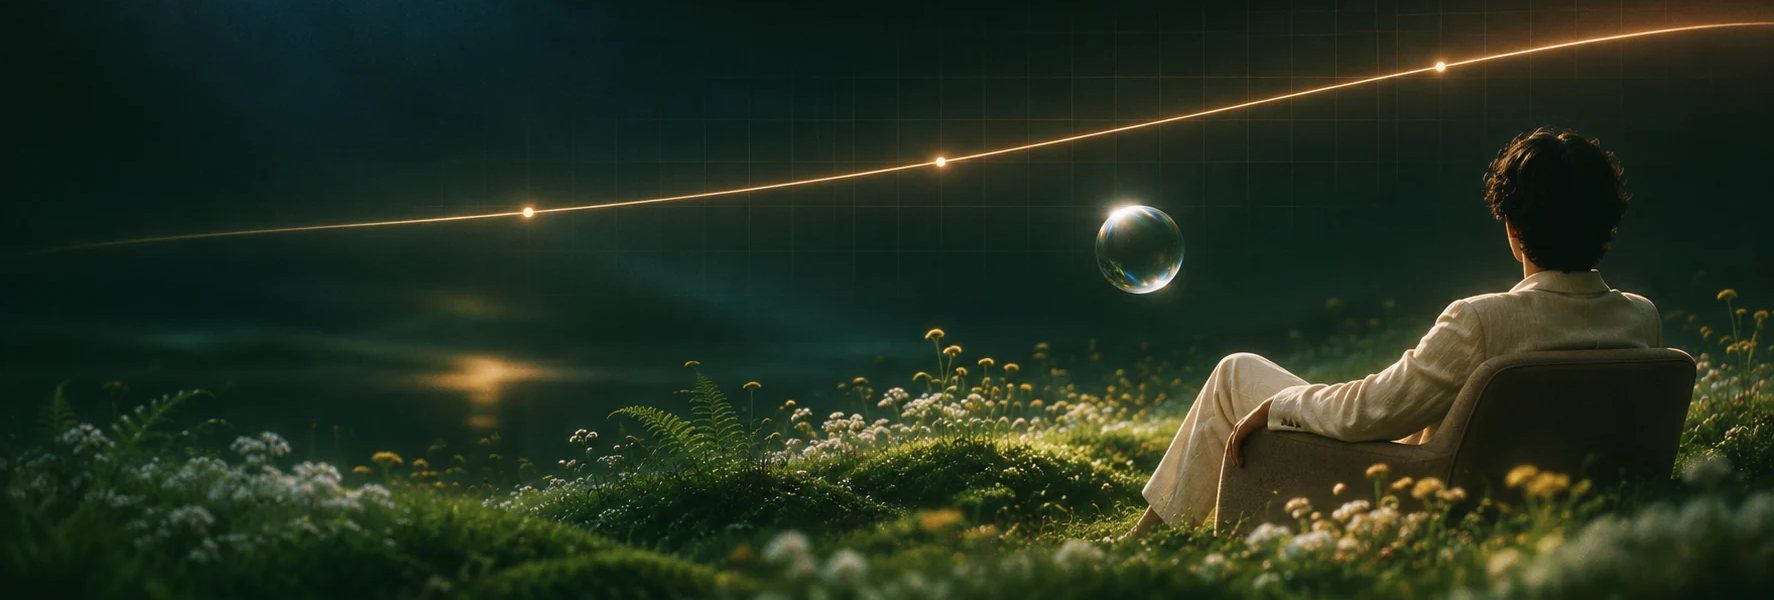
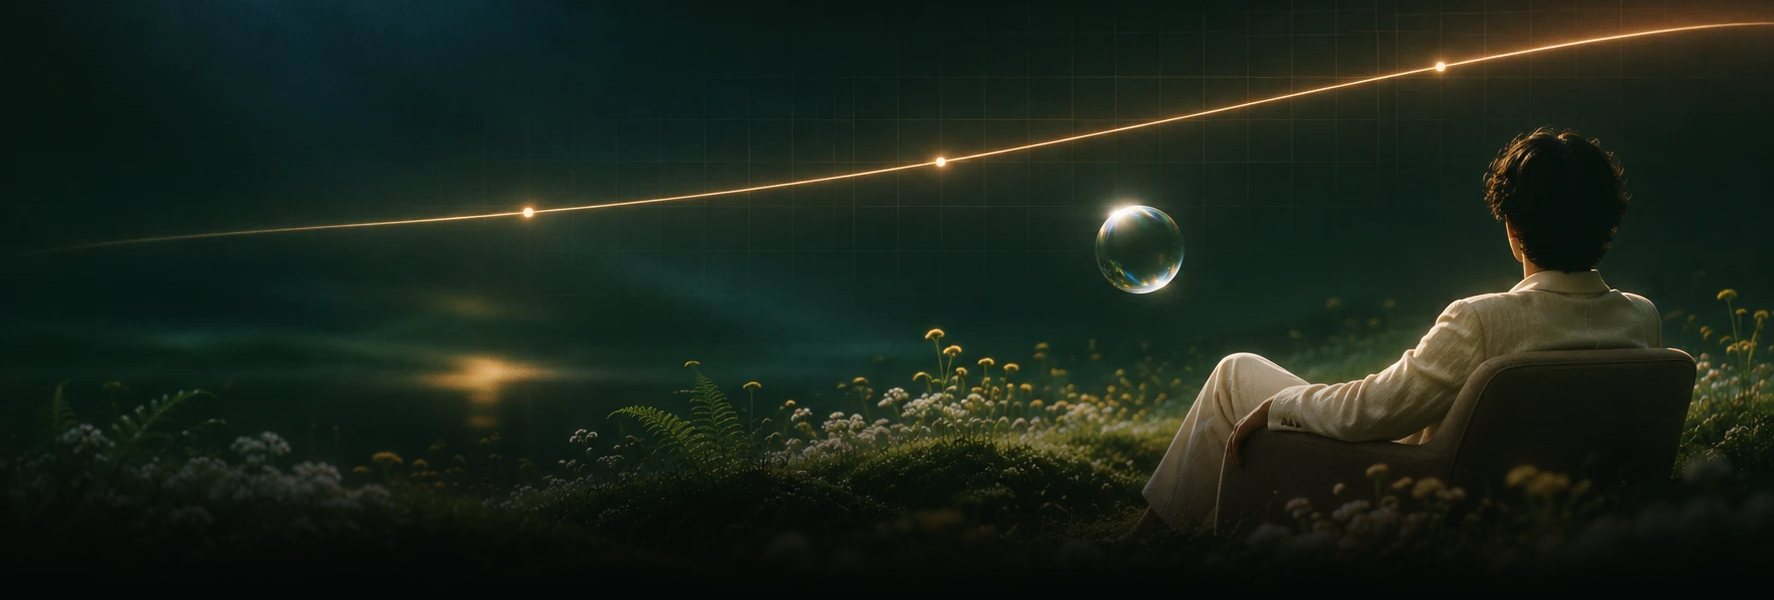
web: scrolling pages with more room; glass scrolls with the photo
- pages scroll instead of fitting one screen; centered shell, 24px gaps, roomier rows
- dashboard: campaigns + chaos left, full-height ledger right, comparison and feed full width
- proof: summary with stats under the verdict, full-height graph and receipts
- photo sits at the top of the page and scrolls with it (fade to --night baked into
  night.jpg), so liquid glass stays aligned without re-rendering on scroll

Changed region(s): [[0.0, 0.63, 1.0, 1.0]]

diff --git a/web/index.html b/web/index.html
@@ -11,21 +11,23 @@
 <link rel="stylesheet" href="/static/suture.css">
 <!-- Owner: slice D. Vanilla HTML + fetch + EventSource, no build step. Design: DESIGN.md. -->
 <style>
-  /* App shell: the panels never move relative to the photo, so liquid glass stays aligned. */
-  html.glass-liquid, html.glass-liquid body { height: 100%; overflow: hidden; }
-  body { display: flex; flex-direction: column; min-height: 100vh; }
-  main { flex: 1; min-height: 0; display: grid; grid-template-columns: 300px minmax(0, 1fr) 320px; gap: 16px; padding: 16px; }
-  .col { display: grid; grid-template-rows: minmax(0, 1fr) auto; gap: 16px; min-height: 0; }
-  .panel { min-height: 0; }
-  #comparePanel { max-height: 34vh; }
-  html.glass-lite main { grid-template-columns: 280px minmax(0, 1fr); }
-  html.glass-lite #feedPanel { grid-column: 1 / -1; }
-  html.glass-lite .panel { max-height: none; }
-  html.glass-lite .scroll { max-height: 70vh; }
-  html.glass-lite #comparePanel { max-height: none; }
+  /* The page scrolls. Left: campaigns + chaos. Right: the ledger at full height.
+     Below, full width: the comparison, then the live feed. */
+  main { display: grid; grid-template-columns: 340px minmax(0, 1fr); grid-template-areas: "side ledger" "compare compare" "feed feed";
+    gap: 24px; padding-top: 24px; align-items: start; }
+  .col.side { grid-area: side; display: grid; gap: 24px; align-content: start; }
+  .col.center { display: contents; }
+  #detailPanel { grid-area: ledger; min-height: 420px; }
+  #comparePanel { grid-area: compare; }
+  #feedPanel { grid-area: feed; }
+  #campaigns { max-height: 460px; }
+  #feed { max-height: 440px; }
+  @media (max-width: 1000px) {
+    main { grid-template-columns: minmax(0, 1fr); grid-template-areas: "side" "ledger" "compare" "feed"; }
+  }
   @media (max-width: 760px) {
-    main, html.glass-lite main { grid-template-columns: minmax(0, 1fr); padding: 12px; }
-    .topbar { margin: 12px 12px 0; } .topbar .tagline { display: none; }
+    .shell { padding: 0 12px 40px; } main { gap: 16px; padding-top: 16px; }
+    .topbar { margin-top: 12px; } .topbar .tagline { display: none; }
     .action .adapter { display: block; margin: 0; overflow: hidden; text-overflow: ellipsis; white-space: nowrap; }
     .ledger-head .stats { margin-left: 0; width: 100%; justify-content: space-between; }
     .ledger-head .stat { border-left: 0; padding: 0; text-align: left; }
@@ -35,7 +37,7 @@
 
   /* campaigns */
   .campaign { display: block; width: 100%; text-align: left; background: none; border: 0; border-bottom: 1px solid var(--hairline); color: inherit; font: inherit;
-    padding: 14px 20px; cursor: pointer; position: relative; transition: background-color var(--dur) var(--ease); }
+    padding: 16px 24px; cursor: pointer; position: relative; transition: background-color var(--dur) var(--ease); }
   .campaign:hover { background: rgba(20,27,24,.55); }
   .campaign.selected { background: var(--amber-soft); }
   .campaign.selected::before { content: ""; position: absolute; left: 0; top: 10px; bottom: 10px; width: 2px; border-radius: 2px; background: var(--amber); }
@@ -46,11 +48,11 @@
   .bar i { display: block; height: 100%; border-radius: 2px; background: var(--c); }
 
   /* ledger */
-  .ledger-head { padding: 18px 20px 16px; border-bottom: 1px solid var(--hairline); display: flex; flex-wrap: wrap; align-items: flex-end; gap: 16px 24px; }
+  .ledger-head { padding: 24px 24px 20px; border-bottom: 1px solid var(--hairline); display: flex; flex-wrap: wrap; align-items: flex-end; gap: 16px 24px; }
   .ledger-head .title { font-size: 20px; line-height: 1.3; font-weight: 500; display: flex; align-items: center; gap: 10px; }
   .ledger-head .id { color: var(--fog); margin-top: 4px; }
   .ledger-head .stats { margin-left: auto; }
-  .action { padding: 16px 20px 14px; border-bottom: 1px solid var(--hairline); display: grid; grid-template-columns: minmax(0, 1fr) auto; gap: 4px 12px; }
+  .action { padding: 20px 24px 18px; border-bottom: 1px solid var(--hairline); display: grid; grid-template-columns: minmax(0, 1fr) auto; gap: 4px 12px; }
   .action > div:first-child { min-width: 0; }
   .action .op { font-weight: 500; }
   .action .adapter { color: var(--fog); margin-left: 8px; }
@@ -61,23 +63,23 @@
 
   /* comparison */
   .compare { display: grid; grid-template-columns: minmax(0, 1fr) minmax(0, 1fr); }
-  .side { min-width: 0; padding: 12px 0 16px; }
+  .side { min-width: 0; padding: 18px 0 22px; }
   .side + .side { border-left: 1px solid var(--hairline); }
-  .side h3 { margin: 0; padding: 0 20px 4px; font-size: 15px; font-weight: 500; }
+  .side h3 { margin: 0; padding: 0 24px 4px; font-size: 15px; font-weight: 500; }
   .side h3 .note { color: var(--fog); font-weight: 400; font-size: 13px; margin-left: 6px; }
-  .side .sub { padding: 0 20px 8px; color: var(--sage); font-size: 13px; }
-  .effect { display: flex; align-items: baseline; gap: 8px; padding: 4px 20px; font-size: 13px; color: var(--sage); }
+  .side .sub { padding: 0 24px 10px; color: var(--sage); font-size: 13px; }
+  .effect { display: flex; align-items: baseline; gap: 8px; padding: 5px 24px; font-size: 13px; color: var(--sage); }
   .effect .name { overflow: hidden; text-overflow: ellipsis; white-space: nowrap; }
   .effect .note { color: var(--fog); }
   .effect .n { margin-left: auto; font-variant-numeric: tabular-nums; color: var(--ink); }
   .effect.dup .n, .effect.dup .name { color: var(--state-failed); }
-  .side .verdict { margin: 10px 20px 0; }
-  .side .empty { padding: 8px 20px; }
+  .side .verdict { margin: 14px 24px 0; }
+  .side .empty { padding: 8px 24px; }
   @media (max-width: 760px) { .compare { grid-template-columns: minmax(0, 1fr); } .side + .side { border-left: 0; border-top: 1px solid var(--hairline); } }
 
 
   /* chaos panel */
-  .chaos { padding: 14px 20px 18px; display: grid; gap: 12px; }
+  .chaos { padding: 18px 24px 22px; display: grid; gap: 14px; }
   .chaos-state { color: var(--sage); font-size: 13px; }
   .chaos-state b { color: var(--ink); font-weight: 500; }
   .chaos-buttons { display: grid; gap: 8px; }
@@ -95,7 +97,7 @@
   .chaos-last b { color: var(--ink); font-weight: 500; }
 
   /* feed */
-  .event { padding: 10px 20px; border-bottom: 1px solid var(--hairline); display: grid; grid-template-columns: auto minmax(0, 1fr); gap: 2px 12px; font-size: 13px; }
+  .event { padding: 12px 24px; border-bottom: 1px solid var(--hairline); display: grid; grid-template-columns: auto minmax(0, 1fr); gap: 2px 12px; font-size: 13px; }
   .event .time { color: var(--fog); }
   .event .what { overflow: hidden; text-overflow: ellipsis; white-space: nowrap; color: var(--sage); }
   .event .what .badge { margin-right: 6px; }
@@ -106,6 +108,7 @@
 <div class="bg" aria-hidden="true"></div>
 <div class="grain" aria-hidden="true"></div>
 
+<div class="shell">
 <header class="glass topbar">
   <div class="glass-content">
     <a class="brand" href="/"><img src="/static/logo.svg" alt=""><span class="word">suture</span></a>
@@ -116,7 +119,7 @@
 </header>
 
 <main>
-  <div class="col">
+  <div class="col side">
   <section class="glass panel" id="campaignPanel">
     <div class="glass-content">
       <div class="panel-head"><div><div class="kicker">Campaigns</div><h2>Incidents</h2></div><span class="count" id="campaignCount"></span></div>
@@ -141,7 +144,7 @@
   </section>
   </div>
 
-  <div class="col">
+  <div class="col center">
     <section class="glass panel" id="detailPanel">
       <div class="glass-content">
         <div class="scroll" id="detail"><div class="empty big"><div class="t">Pick a campaign.</div><div class="s">Its actions and every state they reached show up here.</div></div></div>
@@ -167,6 +170,7 @@
     </div>
   </section>
 </main>
+</div>
 
 <script src="/static/glass.js"></script>
 <script>

diff --git a/web/proof.html b/web/proof.html
@@ -11,21 +11,20 @@
 <link rel="stylesheet" href="/static/suture.css">
 <!-- Owner: slice D. Vanilla HTML + fetch + inline SVG, no build step. Served at /proof/<campaign_id>. Design: DESIGN.md. -->
 <style>
-  html.glass-liquid, html.glass-liquid body { height: 100%; overflow: hidden; }
-  body { display: flex; flex-direction: column; min-height: 100vh; }
-  main { flex: 1; min-height: 0; display: grid; grid-template-columns: minmax(0, 1fr); grid-template-rows: auto auto minmax(0, 1fr); gap: 16px; padding: 16px; }
-  html.glass-lite main { grid-template-rows: none; }
-  @media (max-width: 760px) { main { padding: 12px; } .topbar { margin: 12px 12px 0; } .topbar .tagline, #cid { display: none; }
-    #summary .stat { border-left: 0; padding: 0 16px 0 0; text-align: left; } #summary .stat b { font-size: 24px; } #summary .verdict .big { font-size: 24px; } }
+  .shell { max-width: 1320px; }
+  main { display: grid; grid-template-columns: minmax(0, 1fr); gap: 24px; padding-top: 24px; }
+  @media (max-width: 760px) { .shell { padding: 0 12px 40px; } main { gap: 16px; padding-top: 16px; } .topbar { margin-top: 12px; } .topbar .tagline, #cid { display: none; }
+    #summary .stat b { font-size: 24px; } #summary .verdict .big { font-size: 26px; } }
 
-  #summary > .glass-content { display: flex; flex-direction: row; flex-wrap: wrap; align-items: center; gap: 20px 32px; padding: 20px 24px; }
-  #summary .verdict { flex: 1 1 360px; }
-  #summary .verdict .big { font-size: 32px; line-height: 1.15; letter-spacing: -.01em; }
-  #summary .verdict .why { font-size: 15px; margin-top: 6px; }
+  #summary > .glass-content { display: flex; flex-direction: column; gap: 28px; padding: 32px 32px 28px; }
+  #summary .verdict { padding: 6px 0 6px 18px; }
+  #summary .verdict .big { font-size: 40px; line-height: 1.1; letter-spacing: -.015em; }
+  #summary .verdict .why { font-size: 15px; margin-top: 10px; max-width: 70ch; }
+  #summary .stats { border-top: 1px solid var(--hairline); padding-top: 22px; row-gap: 18px; }
+  #summary .stat { text-align: left; padding: 0 32px; }
+  #summary .stat:first-child { padding-left: 0; }
 
-  #dagPanel { max-height: 34vh; }
-  html.glass-lite #dagPanel { max-height: none; }
-  #dag { padding: 12px 20px 16px; overflow: auto; }
+  #dag { padding: 24px 24px 28px; overflow-x: auto; }
   #dag svg { display: block; height: auto; }
   #dag .node { cursor: pointer; }
   #dag .node .card { fill: var(--forest); stroke: var(--hairline); stroke-width: 1; transition: fill var(--dur) var(--ease); }
@@ -37,19 +36,19 @@
   #dag .edge { fill: none; stroke: var(--hairline-strong); stroke-width: 1; }
   #dag .edge.hot { stroke: var(--amber); }
 
-  .evidence { border-bottom: 1px solid var(--hairline); scroll-margin-top: 8px; transition: background-color var(--dur) var(--ease); }
+  .evidence { border-bottom: 1px solid var(--hairline); scroll-margin-top: 24px; transition: background-color var(--dur) var(--ease); }
   .evidence.focus { background: var(--amber-soft); }
-  .evidence .head { display: flex; flex-wrap: wrap; align-items: center; gap: 8px; padding: 16px 20px 6px; }
+  .evidence .head { display: flex; flex-wrap: wrap; align-items: center; gap: 10px; padding: 24px 24px 10px; }
   .evidence .head .op { font-weight: 500; font-size: 15px; }
   .evidence .head .adapter { color: var(--fog); }
   .evidence .head .aid { margin-left: auto; color: var(--fog); }
-  .evidence .seam { padding: 4px 20px 6px; }
+  .evidence .seam { padding: 6px 24px 10px; }
   .evidence .body { display: grid; grid-template-columns: minmax(0, 1.1fr) minmax(0, 1fr); }
   @media (max-width: 900px) { .evidence .body { grid-template-columns: minmax(0, 1fr); } }
-  .evidence .colx { padding: 8px 20px 16px; min-width: 0; }
+  .evidence .colx { padding: 10px 24px 24px; min-width: 0; }
   .evidence .colx + .colx { border-left: 1px solid var(--hairline); }
   @media (max-width: 900px) { .evidence .colx + .colx { border-left: 0; border-top: 1px solid var(--hairline); } }
-  .evidence h3 { margin: 10px 0 6px; font-size: 11px; line-height: 1.2; font-weight: 500; text-transform: uppercase; letter-spacing: .12em; color: var(--fog); }
+  .evidence h3 { margin: 14px 0 8px; font-size: 11px; line-height: 1.2; font-weight: 500; text-transform: uppercase; letter-spacing: .12em; color: var(--fog); }
   table.timeline { border-collapse: collapse; width: 100%; font-size: 13px; table-layout: fixed; }
   table.timeline col.c-ts { width: 104px; } table.timeline col.c-move { width: 150px; } table.timeline col.c-dt { width: 76px; }
   table.timeline td { padding: 4px 8px 4px 0; vertical-align: top; border-top: 1px solid var(--hairline); }
@@ -76,6 +75,7 @@
 <div class="bg" aria-hidden="true"></div>
 <div class="grain" aria-hidden="true"></div>
 
+<div class="shell">
 <header class="glass topbar">
   <div class="glass-content">
     <a class="brand" href="/"><img src="/static/logo.svg" alt=""><span class="word">suture</span></a>
@@ -109,6 +109,7 @@
     </div>
   </section>
 </main>
+</div>
 
 <script src="/static/glass.js"></script>
 <script>
@@ -162,7 +163,7 @@ function renderStats(report) {
 function renderDag(report, current) {
   const nodes = report.nodes;
   if (!nodes.length) { $("dag").innerHTML = `<div class="empty"><div class="t">No actions yet.</div></div>`; return; }
-  const W = 200, H = 60, GX = 56, GY = 14, PAD = 4;
+  const W = 210, H = 62, GX = 64, GY = 18, PAD = 4;
   const columns = [];
   for (const n of nodes) (columns[n.layer] = columns[n.layer] || []).push(n);
   const tallest = Math.max(...columns.map((c) => (c ? c.length : 0)));

diff --git a/web/static/suture.css b/web/static/suture.css
@@ -34,9 +34,10 @@ body {
 ::selection { background: var(--amber-soft); color: var(--ink); }
 
 /* ---------------------------------------------------------------- photo + grain */
-/* The photo is fixed to the viewport so the glass copy of it never has to move on scroll. */
-.bg {
-  position: fixed; inset: 0; z-index: -3; pointer-events: none;
+/* Glass and photo scroll together, so the refracted copy never has to be re-rendered on scroll. */
+body { position: relative; min-height: 100vh; }
+.bg {   /* the photo sits at the top of the page and scrolls with it; its bottom fades into --night */
+  position: absolute; top: 0; left: 0; right: 0; height: max(100vh, 780px); z-index: -3; pointer-events: none;
   background: var(--night) url("/static/night.jpg") 50% 100% / cover no-repeat;
 }
 .bg::after {   /* keep the night quiet behind the panels */
@@ -85,8 +86,9 @@ body {
 }
 
 /* ---------------------------------------------------------------- header */
-.topbar { margin: 16px 16px 0; }
-.topbar > .glass-content { display: flex; align-items: center; gap: 14px; padding: 12px 18px; }
+.shell { max-width: 1480px; margin: 0 auto; padding: 0 24px 64px; }
+.topbar { margin-top: 24px; }
+.topbar > .glass-content { display: flex; align-items: center; gap: 16px; padding: 14px 24px; }
 .brand { display: flex; align-items: center; gap: 10px; color: var(--ink); text-decoration: none; }
 .brand img { width: 30px; height: 30px; display: block; }
 .brand .word { font-size: 20px; line-height: 1; letter-spacing: -.01em; }
@@ -100,12 +102,12 @@ body {
 
 /* ---------------------------------------------------------------- panels */
 .panel > .glass-content { display: flex; flex-direction: column; min-height: 0; }
-.panel-head { display: flex; align-items: flex-end; gap: 12px; padding: 16px 20px 12px; border-bottom: 1px solid var(--hairline); }
+.panel-head { display: flex; align-items: flex-end; gap: 12px; padding: 22px 24px 16px; border-bottom: 1px solid var(--hairline); }
 .kicker { font-size: 11px; line-height: 1.2; font-weight: 500; text-transform: uppercase; letter-spacing: .12em; color: var(--fog); margin-bottom: 4px; }
 .panel-head h2 { margin: 0; font-size: 20px; line-height: 1.3; font-weight: 500; }
 .panel-head .count { margin-left: auto; color: var(--fog); font-size: 13px; font-variant-numeric: tabular-nums; }
 .scroll { overflow: auto; min-height: 0; flex: 1; scrollbar-width: thin; scrollbar-color: var(--hairline-strong) transparent; }
-.empty { padding: 32px 20px; }
+.empty { padding: 40px 24px; }
 .empty .t { font-size: 20px; line-height: 1.3; color: var(--sage); }
 .empty.big .t { font-size: 32px; line-height: 1.15; letter-spacing: -.01em; }
 .empty .s { font-size: 13px; color: var(--fog); margin-top: 6px; }

diff --git a/web/static/glass.js b/web/static/glass.js
@@ -6,8 +6,8 @@
 // soft glare follow the pointer. Technique from julian-poke-portfolio, generalized
 // to many panels (one filter + map per panel, rebuilt only when its size changes).
 //
-// Falls back to "lite" glass (backdrop blur + tint, no refraction) when the layout
-// scrolls (narrow / short viewports) or the user prefers reduced transparency.
+// Falls back to "lite" glass (backdrop blur + tint, no refraction) on phones or when
+// the user prefers reduced transparency.
 (function () {
   const BG = { url: "/static/night.jpg", w: 1774, h: 600, x: 0.5, y: 1.0 }; // matches .bg in suture.css
   const OVERSCAN = 24;   // .glass-refract inset, so the blur never pulls in empty edges
@@ -22,7 +22,7 @@
   let rev = 0;
 
   function wantLite() {
-    return reducedTransparency || innerWidth < 1100 || innerHeight < 640 || root.dataset.glass === "lite";
+    return reducedTransparency || innerWidth < 760 || root.dataset.glass === "lite";
   }
 
   // surface tilt -> refracted bend; 0 in the flat centre, max at the rim
@@ -84,12 +84,14 @@
     return st;
   }
 
-  // Keep the refracted copy aligned with the fixed, cover-sized background.
+  // Keep the refracted copy aligned 1:1 with the cover-sized .bg photo. Both live in
+  // document coordinates, so scrolling never changes the offset; layout changes do.
   function place(st) {
-    const vw = innerWidth, vh = innerHeight;
-    const s = Math.max(vw / BG.w, vh / BG.h);
+    const bgEl = document.querySelector(".bg");
+    const b = bgEl ? bgEl.getBoundingClientRect() : { left: 0, top: 0, width: innerWidth, height: innerHeight };
+    const s = Math.max(b.width / BG.w, b.height / BG.h);
     const cw = BG.w * s, ch = BG.h * s;
-    const ox = (vw - cw) * BG.x, oy = (vh - ch) * BG.y;
+    const ox = b.left + (b.width - cw) * BG.x, oy = b.top + (b.height - ch) * BG.y;
     const r = st.el.getBoundingClientRect();
     st.refract.style.backgroundSize = `${cw}px ${ch}px`;
     st.refract.style.backgroundPosition = `${ox - (r.left - OVERSCAN)}px ${oy - (r.top - OVERSCAN)}px`;
@@ -163,7 +165,12 @@
   }, { passive: true });
 
   addEventListener("resize", () => { applyMode(); for (const st of items.values()) schedule(st); });
-  // In lite (scrolling) layouts there is no refracted copy to keep aligned, so scroll is free.
+  // A panel above growing (new rows) moves every panel below it: re-align them all.
+  let placing = 0;
+  new ResizeObserver(() => {
+    if (placing) return;
+    placing = requestAnimationFrame(() => { placing = 0; for (const st of items.values()) place(st); });
+  }).observe(document.body);
 
   window.SutureGlass = { scan, applyMode };
   applyMode();
